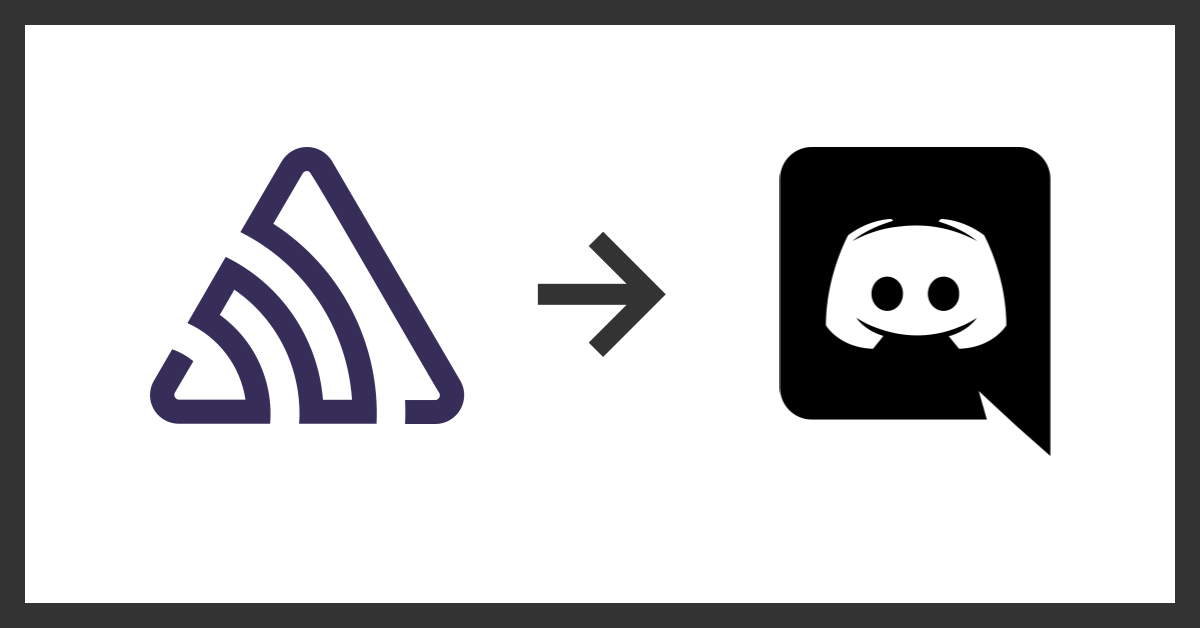
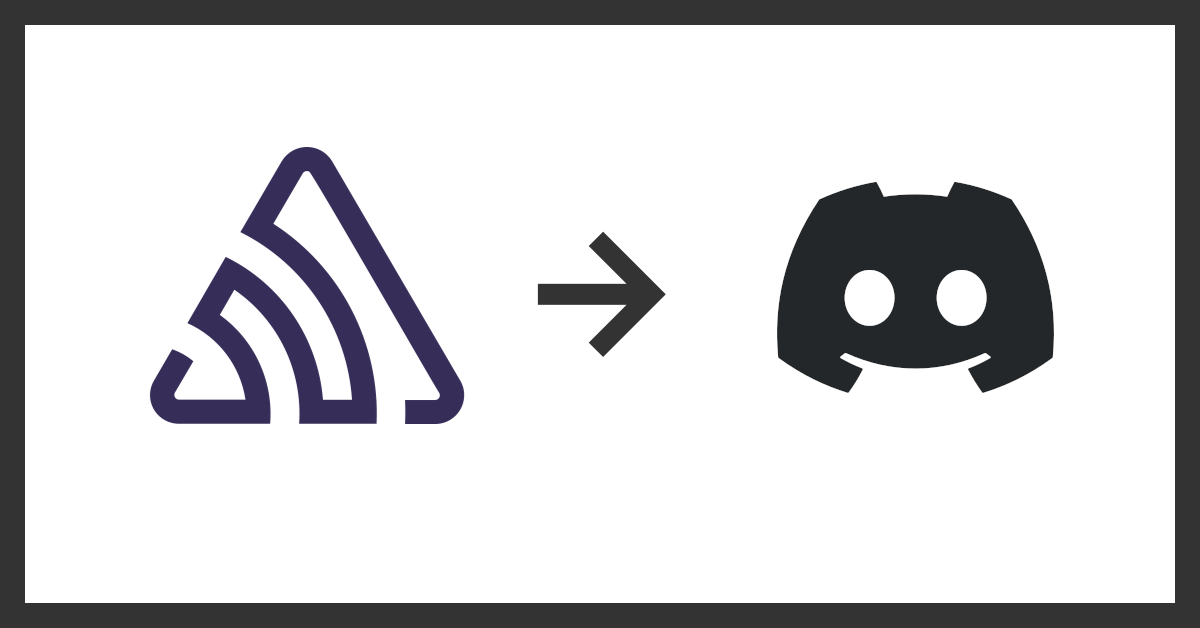
Discord rebrand (#1)

Changed region(s): [[0.6475, 0.2118, 0.8942, 0.7261]]

diff --git a/tailwind.config.js b/tailwind.config.js
@@ -4,7 +4,7 @@ module.exports = {
   theme: {
     extend: {
       colors: {
-        blurple: '#7289DA',
+        blurple: '#5865F2',
         sentry: '#FF0F00',
       },
     },
